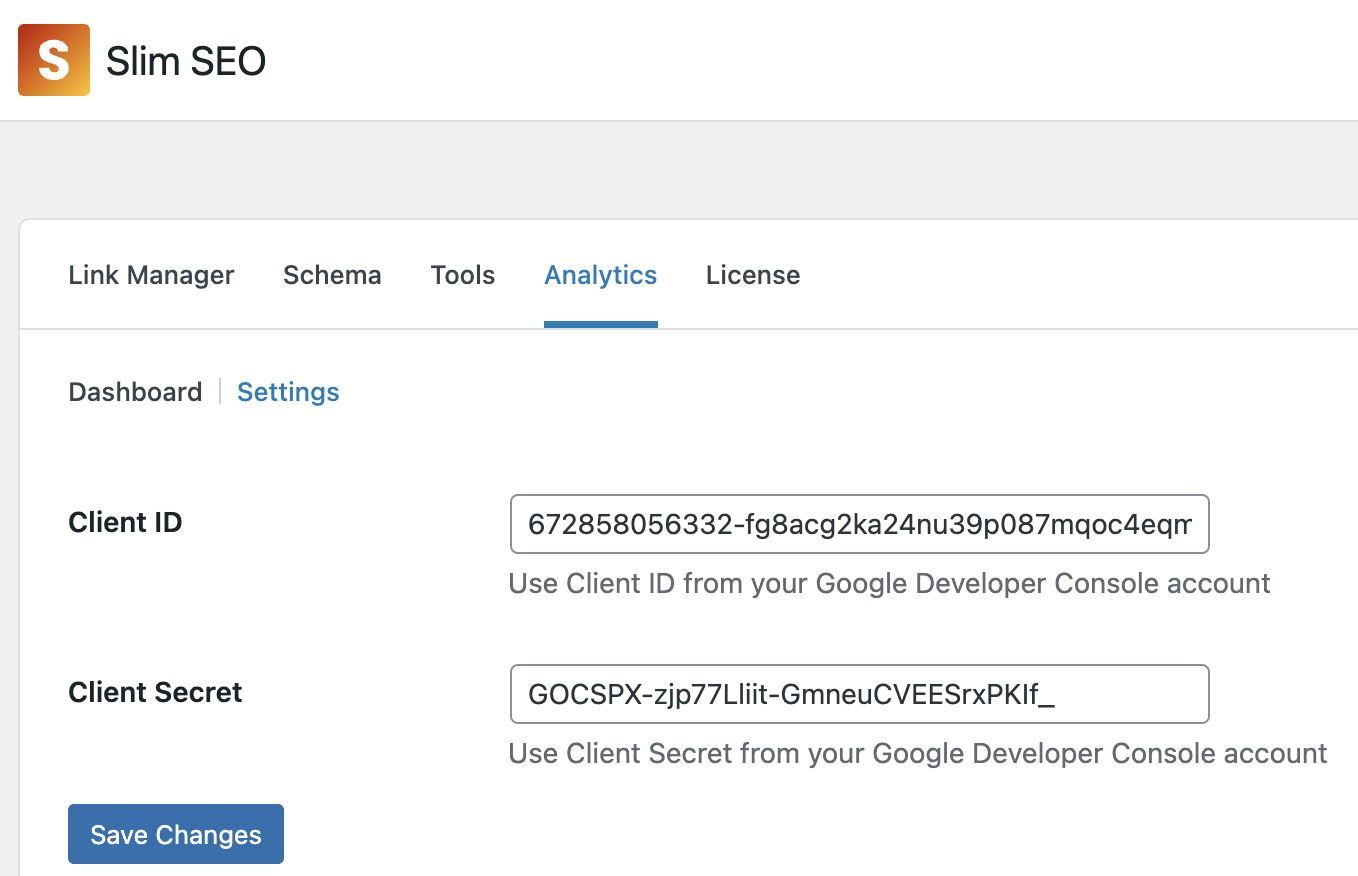
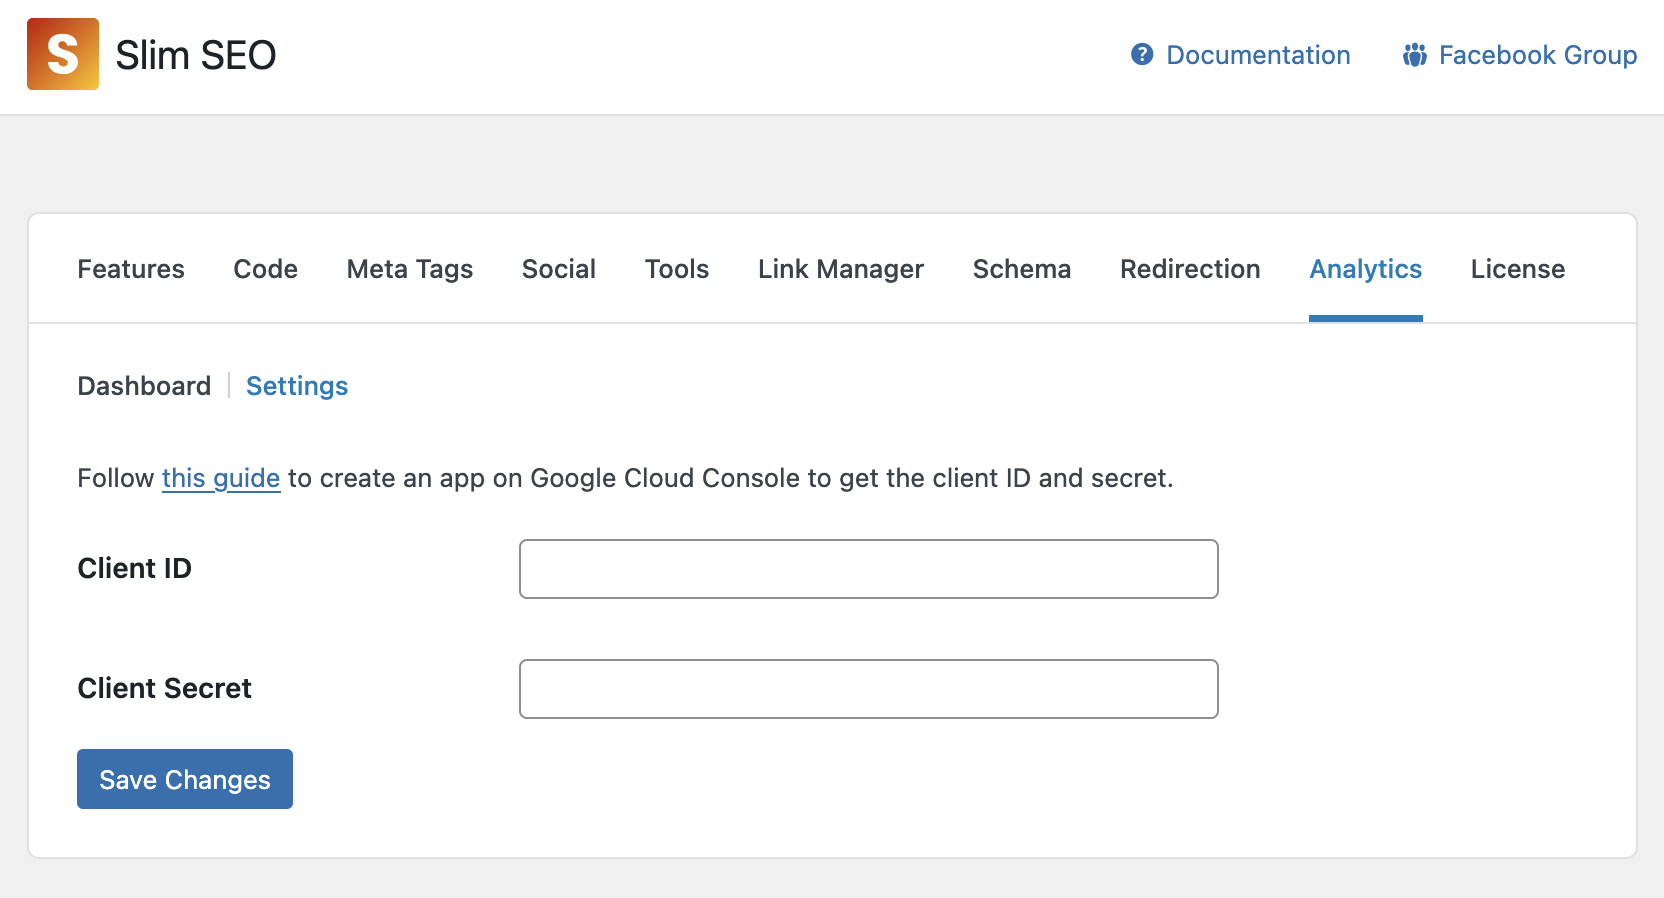
Update docs

diff --git a/docs/slim-seo-pro/05-analytics/02-reports.md b/docs/slim-seo-pro/05-analytics/02-reports.md
@@ -1,0 +1,66 @@
+---
+title: Reports
+---
+
+The integration with Google Search Console (GSC) allows Slim SEO Pro to pull the reports from GSC into WordPress admin so you can see your search performance faster. The reports shown by Slim SEO Pro is a little bit different from the default GSC reports as we re-organize them so you can view import metrics faster.
+
+## Performance
+
+The 1st and the most important report is the **Performance** report. This report shows you how your pages perform on SERPs:
+
+![Performance report](img/report-performance.png)
+
+It has the following metrics:
+
+- Total Impressions: how many times your pages appear on SERPs
+- Total Clicks: how many times people click to go to your pages
+- Average CTR: the average ratio between clicks and impressions
+- Average Position: the avarage position of your pages on SERPs
+
+You can toggle each metric by check/uncheck the checkbox below the graph, or filter the date from the dropdown at the top of the graph.
+
+Basically, this report is the same as the original **Performance** report in GSC.
+
+## Keywords
+
+The 2nd report is the **Keywords** report, which shows you the keywords that you rank for:
+
+![Keywords report](img/report-keywords.png)
+
+Slim SEO Pro groups keywords into 3 tabs and put them at the top of the table
+
+- Top Clicks: keywords that get most total clicks
+- Top Winning: keywords that get more clicks than the previous period
+- Top Losing: keywords that lose more clicks than the previous period
+
+In the table, you'll see each keyword with the same metrics as in the **Performance** report. However, to let you know the changes/differences from the current period to the previous period, we added secondary numbers below the primary numbers, with color = green if increased and red if decreased.
+
+To view more details about each keywords, click the **View all** link at the top right of the widget, and you'll redirect to the detailed page:
+
+![Keywords report details](img/report-keywords-details.png)
+
+In this screen, you can see the metrics clearer, and sort keywords by them.
+
+You can also export the keywords to CSV to do further analyzing if you want.
+
+## Pages
+
+The 3rd report is the **Pages** report, which shows you how your pages perform on SERPs. It's useful to know the performance of each individual page on your website.
+
+![Pages report](img/report-pages.png)
+
+Similar to the **Keywords** report, we also group pages into 3 tabs:
+
+- Top Clicks: pages that get most total clicks
+- Top Winning: pages that get more clicks than the previous period
+- Top Losing: pages that lose more clicks than the previous period
+
+In the table, you'll see each page with the same metrics as in the **Performance** report. However, to let you know the changes/differences from the current period to the previous period, we added secondary numbers below the primary numbers, with color = green if increased and red if decreased.
+
+To view more details about each page, click the **View all** link at the top right of the widget, and you'll redirect to the detailed page:
+
+![Keywords report details](img/report-pages-details.png)
+
+In this screen, you can see the metrics clearer, and sort pages by them.
+
+You can also export the report to CSV to do further analyzing if you want.

diff --git a/docs/slim-seo-pro/05-analytics/01-connecting-to-gsc.md b/docs/slim-seo-pro/05-analytics/01-connecting-to-gsc.md
@@ -52,18 +52,29 @@ Enter your information by following their instruction:
 
 ![Create Branding 5](img/create-branding-5.png)
 
-## Add Authorised domain
+## Adding authorised domain
+
+This step ensures the app runs only for your domain. Click **Branding** menu again, and scroll down to see the new input for authorised domains. Simply add your domain(s) here:
 
 ![Add Authorised domain](img/add-authorised-domain.png)
 
-## Setup Audience
+## Setting up audience
 
-Select `Audience` on the menu, you have 2 options:
+This step tells Google that your app is a public app, which can be used by other users or a test app, which is used by yourself only. Click the **Audience** menu, and you'll see by default, the app is **Testing**. This is our recommend mode to use as the app is for your websites only. It's not a public app for others.
 
-- Testing (default), this is our recommend to use, you will have to add Test users if you select this one.
-- Publish app.
+:::caution
+
+If you want to keep the app in the testing mode, **do NOT** click the **Publish app** button.
+
+:::
 
 ![Audience](img/setup-audience.png)
+
+When keeping the app in the testing mode, you will have to add test users. Scroll down to the **Test users** section and click **+ Add user** button.
+
+In the popup, add your email and click **Save** button:
+
+![Add test users](img/add-test-users.png)
 
 ## Creating credentials
 
@@ -85,15 +96,13 @@ Copy these details and now go to your **WordPress admin > Settings > Slim SEO > 
 
 ## Authorizing with GSC
 
-For the first time using Analytics, you will have to get Google authentication token by click the link in the dashboard:
+After entering the client ID and client secret for GSC, you can connect to GSC to get the reports. To connect to GSC, click the link in the dashboard:
 
 ![Get Google authentication token](img/login-google-to-get-authentication-token.png)
 
-then follow their instruction:
+then login with the account that you used for test users in the step above:
 
 ![Get Google authentication token 1](img/get-authentication-token-1.png)
-
-Notice: use the same email you entered on step 6 if you are using Testing mode.
 
 ![Get Google authentication token 2](img/get-authentication-token-2.png)
 
@@ -102,3 +111,5 @@ Notice: use the same email you entered on step 6 if you are using Testing mode.
 After all these steps, it will redirect you back to Analytics and ready for you to use:
 
 ![Analytics screen](img/analytics-screen.png)
+
+Now it's time to [learn about the reports](/slim-seo-pro/analytics/reports/).
